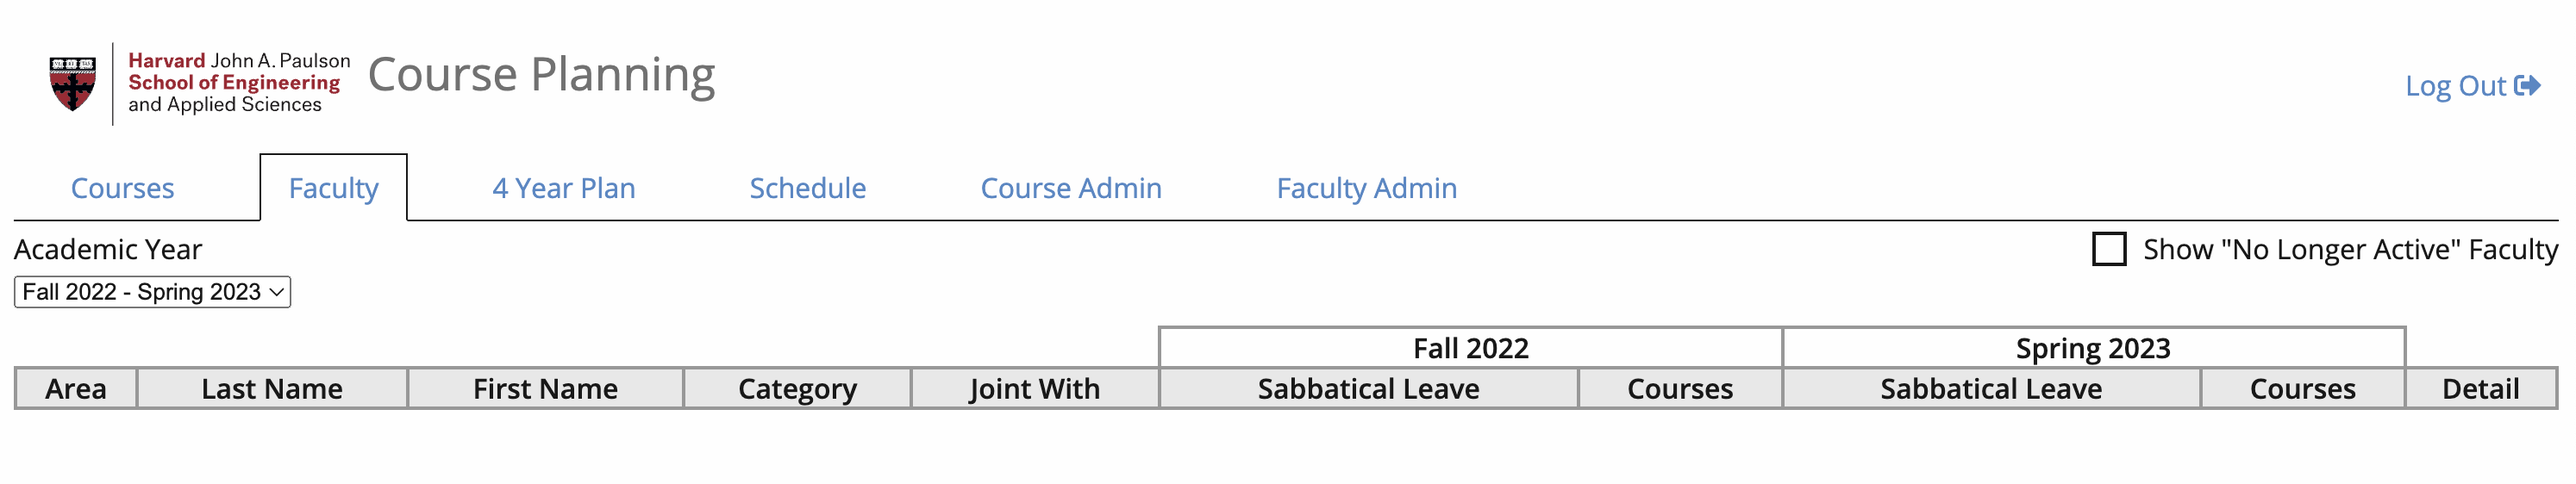
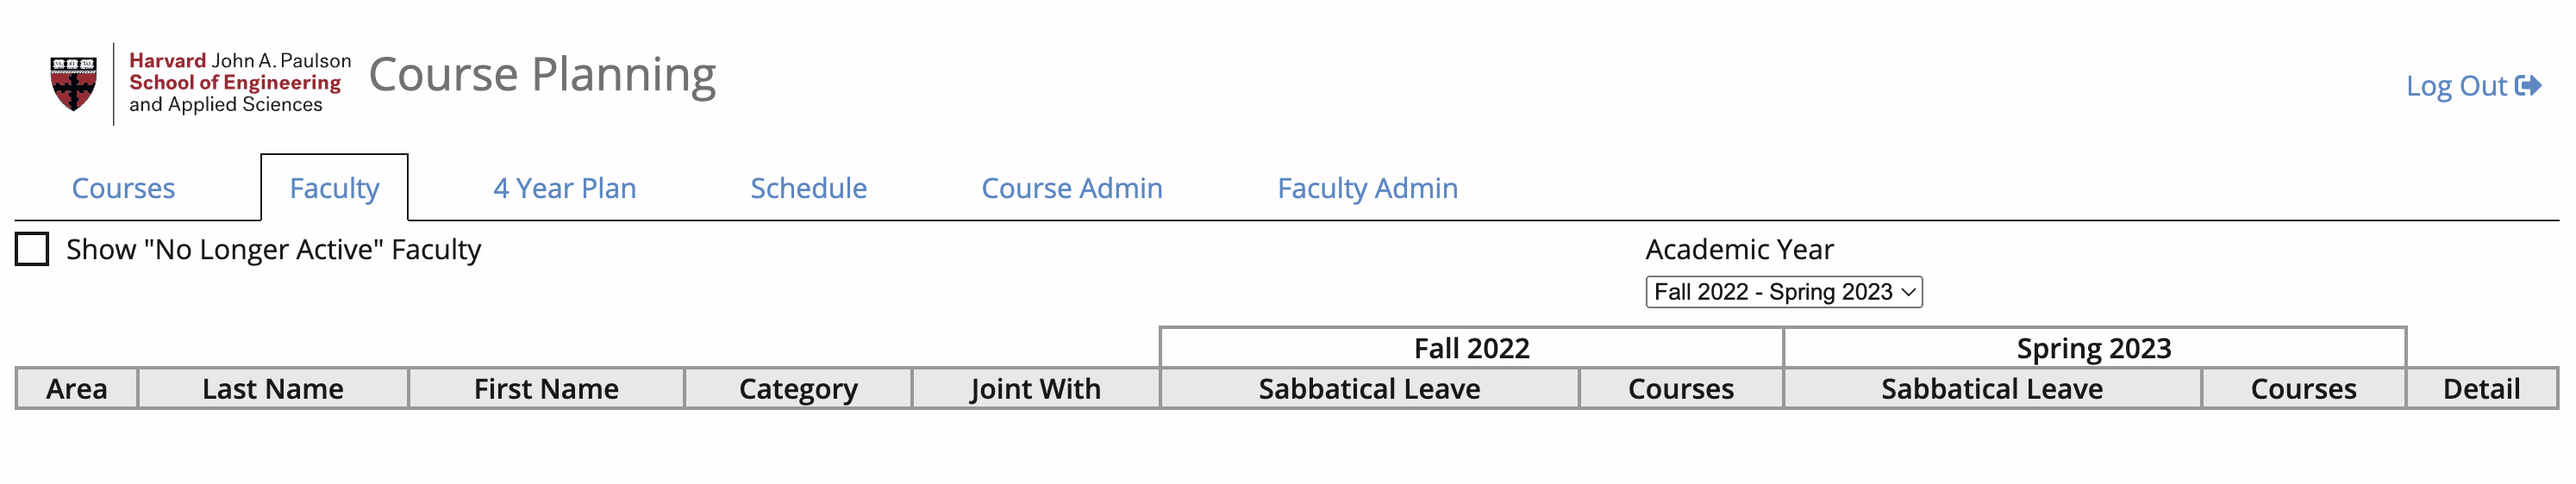
QA Review, faculty tab - proposed implementation

diff --git a/faculty-navigation-top/index.html b/faculty-navigation-top/index.html
@@ -1,10 +1,22 @@
 <!-- Faculty tab at https://planning-qa.seas.harvard.edu/courses/faculty
 Aligning cademic Year drop down similarly with Courses
-Current implementation -->
+Proposed implementation -->
 
 <div class="sc-dUrmIn ccFFzG">
     <div class="sc-eLgNKc crImn">
-        <label for="academic-year-selector" class="sc-fKFxtB jzmEes">
+        <!-- Switching "Academic Year" drop down with "Show "No Longer Active" Faculty" -->
+        <label for="showRetiredFaculty" class="sc-iJuVqt kObjiB">
+            <span
+                class="sc-giImIA ibGOVT">Show "No Longer Active" Faculty
+            </span>
+            <input id="showRetiredFaculty" type="checkbox" name="showRetiredFaculty" class="sc-kLgnNl hQvKQQ" value="">
+            <span role="checkbox" class="sc-bYEvvW kdOGFp">
+                <svg viewBox="0 0 60 60" class="sc-ezredP ja-dtkq">
+                    <polyline points="10 25 25 40 50 7"></polyline>
+                </svg>
+            </span>
+        </label>
+        <label for="academic-year-selector" class="sc-fKFxtB jzmEes" style="margin: auto; margin-right: 25%;"> <!-- Aligning drop down with semesters -->
             <span
                 class="sc-bBXrwG hNskiO">Academic Year
             </span>
@@ -25,17 +37,6 @@ Current implementation -->
                 <option value="2024">Fall 2023 - Spring 2024</option>
                 <option value="2025">Fall 2024 - Spring 2025</option>
             </select>
-        </label>
-        <label for="showRetiredFaculty" class="sc-iJuVqt kObjiB">
-            <span
-                class="sc-giImIA ibGOVT">Show "No Longer Active" Faculty
-            </span>
-            <input id="showRetiredFaculty" type="checkbox" name="showRetiredFaculty" class="sc-kLgnNl hQvKQQ" value="">
-            <span role="checkbox" class="sc-bYEvvW kdOGFp">
-                <svg viewBox="0 0 60 60" class="sc-ezredP ja-dtkq">
-                    <polyline points="10 25 25 40 50 7"></polyline>
-                </svg>
-            </span>
         </label>
     </div>
 </div> 
